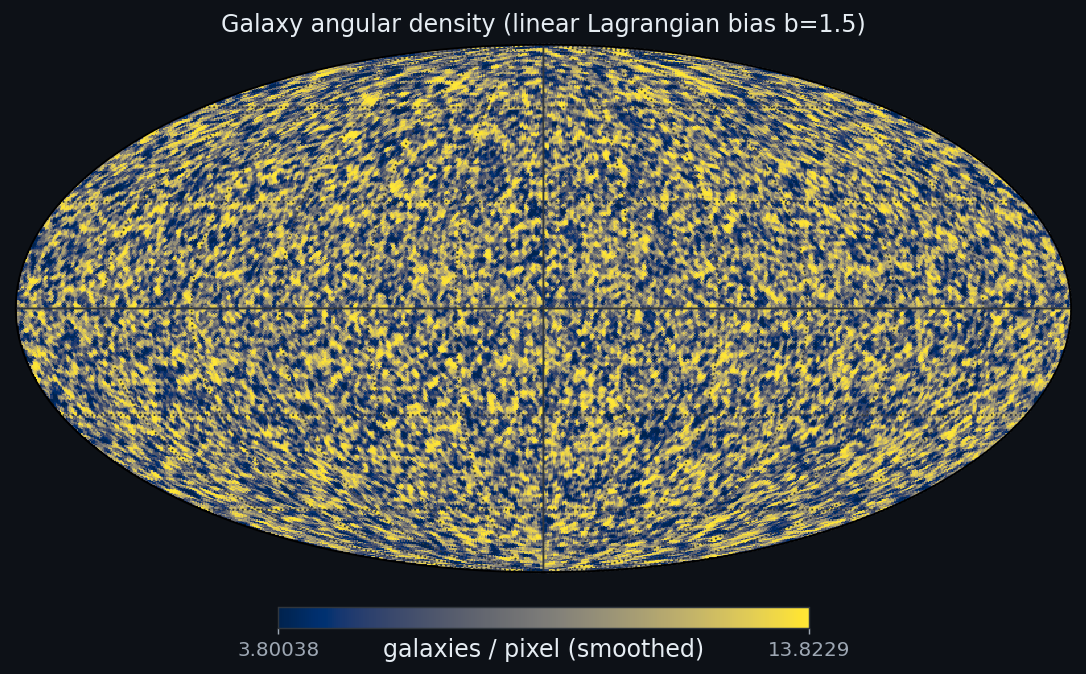
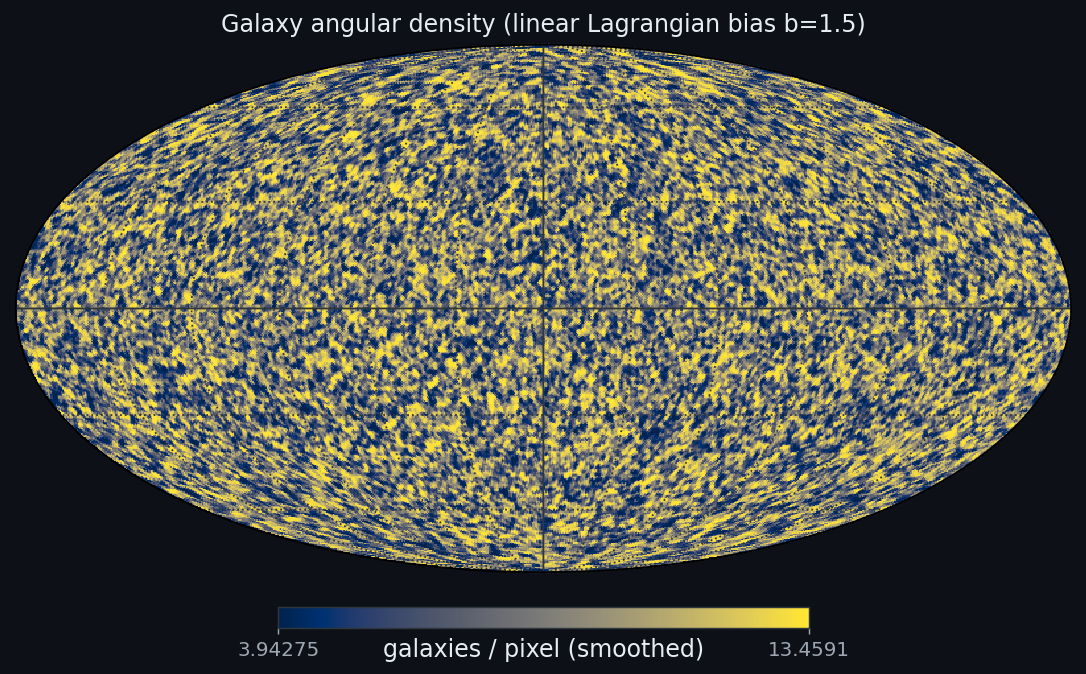
Sample galaxies uniformly within cells to remove lattice geometry artifacts
A perfect lattice sampled at its vertices is not homogeneous on the lightcone:
it imprints the lattice geometry — radial sphere-shell counts (rings) and cubic
axis anisotropy (spokes) — coherently, because the observer sits at a
lattice-symmetric point repeated in every periodic replica. (Verified: the
crossing count matches the comoving volume / cell to 4 sig-figs, so the replicas
themselves are correct; and uniform-in-cell sampling drops the radial-density
oscillations ~3x to the shot-noise floor.)

The galaxies were one-per-cell at the base vertex, so they showed it. Place each
galaxy at a uniform random sub-cell offset instead (independent per replica
image) -> homogeneous galaxy field, the rings/spokes are gone. The density maps
were already clean because n_resample fills the cells.

Changed region(s): [[0.0, 0.0623, 1.0, 0.8412], [0.7293, 0.9347, 0.7901, 0.997], [0.2431, 0.9347, 0.3039, 0.997]]

diff --git a/docs/make_lightcone_gallery.py b/docs/make_lightcone_gallery.py
@@ -173,6 +173,8 @@ def read_catalogue(path, observer, dj, gal_cell, dec_halfwidth=2.0, n_3d=40000):
     obs = np.asarray(observer)
     a_obs_of_z = lambda z: 1.0 / (1.0 + z)
     n_part_base = gal_cell.shape[0]
+    hcell = float(dj.boxsize) / dj.res          # comoving cell size, for sub-cell jitter
+    rng_jit = np.random.default_rng(2025)
 
     wedge = {k: [] for k in ("ra", "chi_real", "chi_rsd")}
     gwedge = {k: [] for k in ("ra", "chi_real")}     # galaxies in the slice
@@ -214,11 +216,25 @@ def read_catalogue(path, observer, dj, gal_cell, dec_halfwidth=2.0, n_3d=40000):
                 is_gal = np.zeros(e - s, dtype=bool)
             n_gal += int(is_gal.sum())
             if is_gal.any():
-                gp = ang2pix_ring(NSIDE_GAL, jnp.asarray(theta[is_gal]),
-                                  jnp.asarray(phi[is_gal]))
+                # Sample each galaxy UNIFORMLY within its cell rather than at the
+                # base vertex: a perfect lattice sampled at vertices is NOT
+                # homogeneous on the lightcone (radial sphere-shell rings + cubic
+                # axis spokes); a uniform sub-cell offset removes those geometric
+                # artifacts (independent per replica image).
+                relg = rel[is_gal] + rng_jit.uniform(-hcell / 2, hcell / 2,
+                                                     size=(int(is_gal.sum()), 3))
+                dg = np.linalg.norm(relg, axis=-1)
+                thg, phg = vec2ang(relg)
+                decg = 90.0 - np.degrees(np.asarray(thg))
+                rag = np.degrees(np.asarray(phg))
+                gp = ang2pix_ring(NSIDE_GAL, thg, phg)
                 np.add.at(gal_map, np.asarray(gp), 1.0)
                 zg_all.append(z_cosmo[is_gal])
-            # thin equatorial slice for the wedge (all mass + galaxies)
+                slg = np.abs(decg) < dec_halfwidth
+                if slg.any():
+                    gwedge["ra"].append(np.radians(rag[slg]))
+                    gwedge["chi_real"].append(dg[slg])
+            # thin equatorial slice for the wedge (all mass)
             sl = np.abs(dec) < dec_halfwidth
             if sl.any():
                 a_obs = a_obs_of_z(z_obs[sl])
@@ -226,10 +242,6 @@ def read_catalogue(path, observer, dj, gal_cell, dec_halfwidth=2.0, n_3d=40000):
                 wedge["ra"].append(np.radians(ra[sl]))
                 wedge["chi_real"].append(d[sl])
                 wedge["chi_rsd"].append(chi_rsd)
-                slg = sl & is_gal
-                if slg.any():
-                    gwedge["ra"].append(np.radians(ra[slg]))
-                    gwedge["chi_real"].append(d[slg])
             # 3-D subsample (strided)
             idx = np.arange(0, e - s, stride)
             if idx.size:
